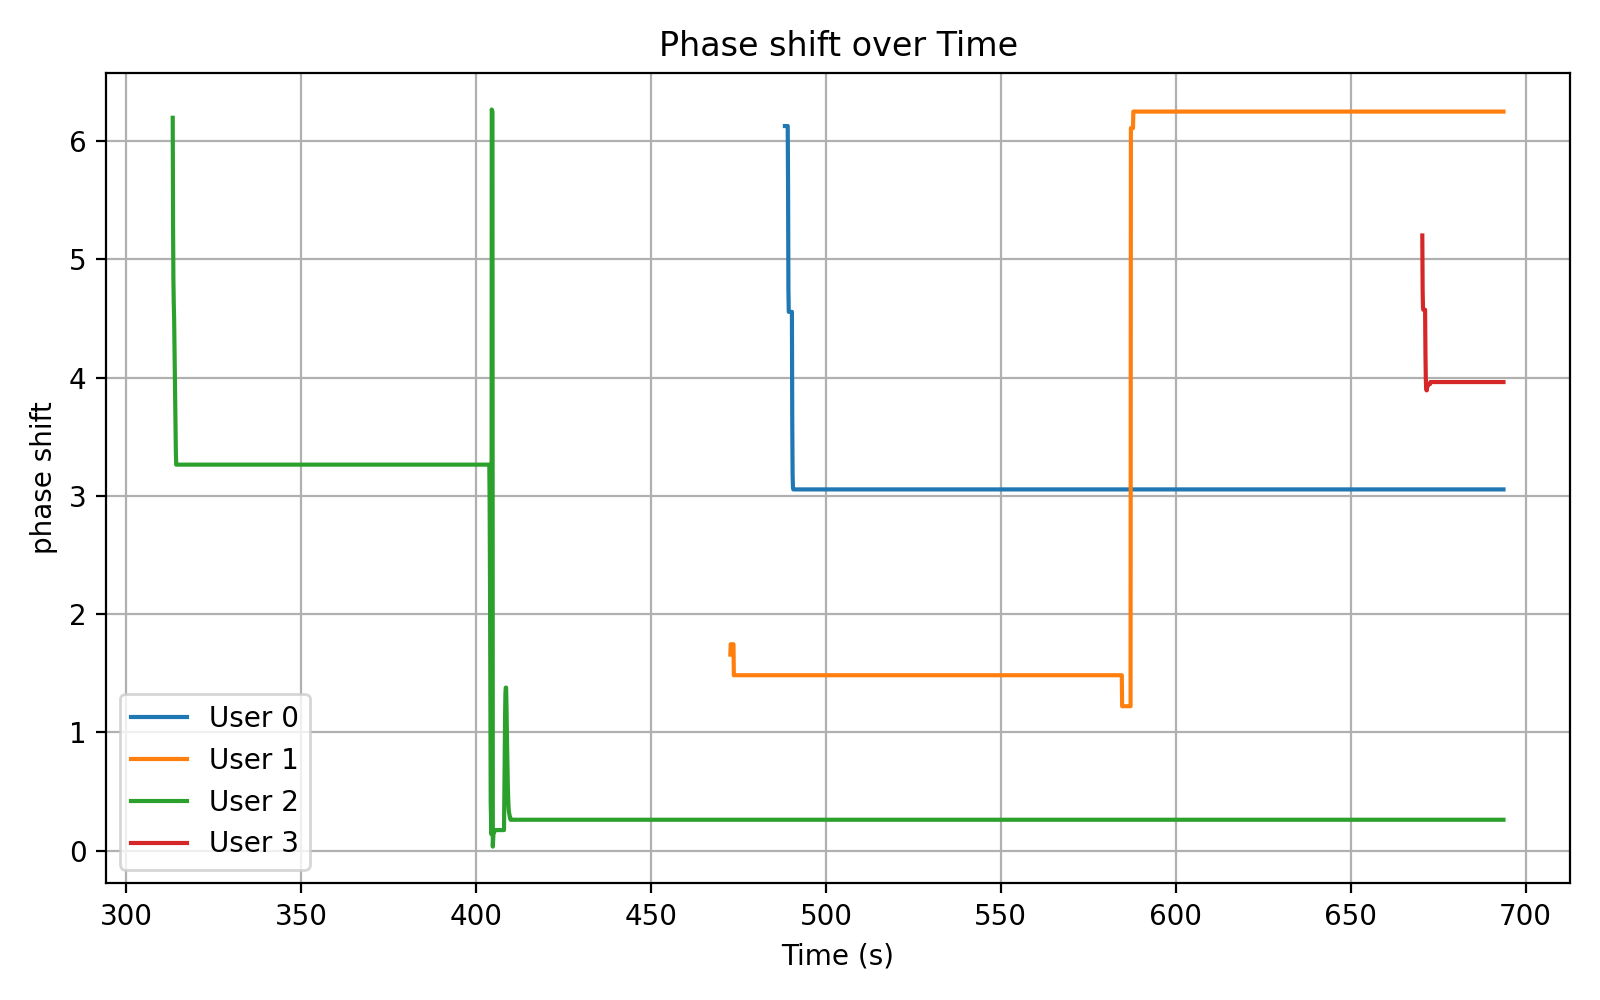
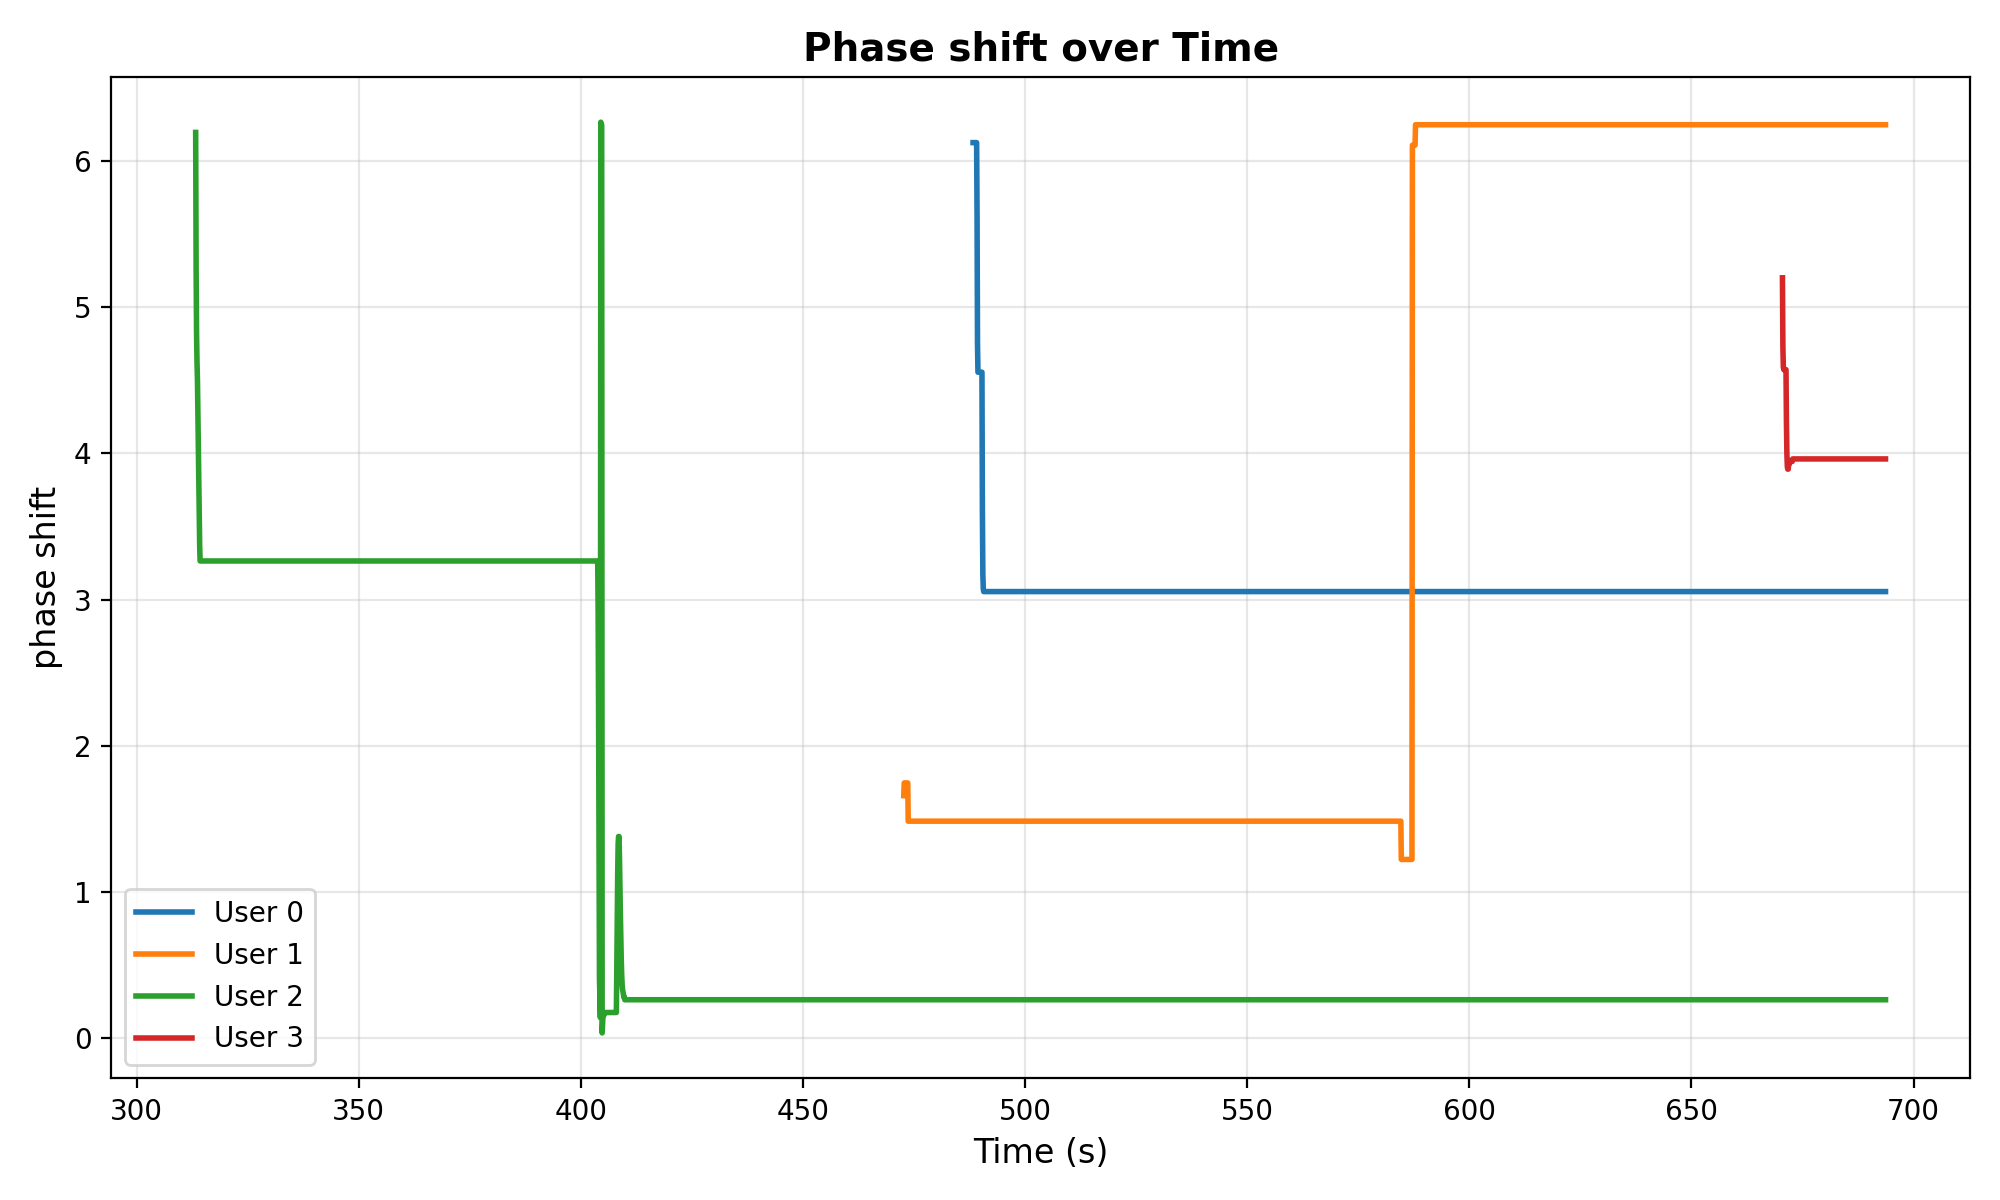
added filters to select/delselect users and parameters to show

diff --git a/ReadAndAnalyse.py b/ReadAndAnalyse.py
@@ -5,7 +5,7 @@ import pandas as pd
 import matplotlib.pyplot as plt
 from itertools import combinations
 import os
-from matplotlib.widgets import Slider, Button
+from matplotlib.widgets import Slider, Button, CheckButtons
 
 # ========== CONFIG ==========
 LOG_PATTERN = "User*.log"
@@ -74,36 +74,97 @@ for p in params:
                 val = d.iloc[idx]['value']; idx += 1
             series[p][u][i] = val
 
-# ========== STEP 3: VISUALISATION WITH SCROLLING ==========
+# ========== STEP 3: VISUALISATION WITH SCROLLING AND FILTERS ==========
 visible_count = 2  # how many graphs to show at once
 total_params = len(params)
 
-fig, axes = plt.subplots(visible_count, 1, figsize=(10, 6), sharex=True)
-plt.subplots_adjust(right=0.85, bottom=0.15)
+# Create figure with room for checkboxes
+fig = plt.figure(figsize=(14, 8))
+gs = fig.add_gridspec(visible_count, 2, width_ratios=[3, 1], 
+                     left=0.08, right=0.85, bottom=0.15, top=0.95,
+                     wspace=0.3, hspace=0.3)
+
+# Create axes for plots
+axes = [fig.add_subplot(gs[i, 0]) for i in range(visible_count)]
+
+# Selection state
+selected_users = {u: True for u in users}
+selected_params = {p: True for p in params}
+current_top_param = [0]
 
 # Function to plot the visible subset
-def draw_visible(start_index):
+def draw_visible():
+    # Get selected items
+    active_users = [u for u in users if selected_users[u]]
+    active_params = [p for p in params if selected_params[p]]
+    
+    if not active_users or not active_params:
+        for ax in axes:
+            ax.clear()
+            ax.text(0.5, 0.5, 'No data selected', ha='center', va='center', transform=ax.transAxes)
+        fig.canvas.draw_idle()
+        return
+    
     for ax in axes:
         ax.clear()
-    subset = params[start_index:start_index + visible_count]
+    
+    # Get visible parameters based on scroll position
+    visible_params = [p for p in active_params if selected_params[p]]
+    start_idx = min(current_top_param[0], max(0, len(visible_params) - visible_count))
+    current_top_param[0] = start_idx
+    subset = visible_params[start_idx:start_idx + visible_count]
+    
     for ax, p in zip(axes, subset):
-        for u in users:
-            ax.plot(timeline, series[p][u], label=f"User {u}")
-        ax.set_ylabel(p)
-        ax.set_title(p.capitalize())
-        ax.grid(True)
-    axes[-1].set_xlabel("Time (s)")
-    axes[0].legend(loc='upper right')
+        for u in active_users:
+            ax.plot(timeline, series[p][u], label=f"User {u}", linewidth=2)
+        ax.set_ylabel(p, fontsize=10)
+        ax.set_title(p.capitalize(), fontsize=11, fontweight='bold')
+        ax.grid(True, alpha=0.3)
+        ax.legend(loc='upper right', fontsize=9)
+    
+    if subset:
+        axes[-1].set_xlabel("Time (s)", fontsize=10)
+    
     for ax in axes:
         ax.set_xlim(t_min, t_min + 50)
+    
     fig.canvas.draw_idle()
 
+# User selection checkboxes
+ax_user_check = fig.add_subplot(gs[0, 1])
+ax_user_check.set_title("Select Users", fontsize=10, fontweight='bold')
+user_labels = [f"User {u}" for u in users]
+user_check = CheckButtons(ax_user_check, user_labels, [True] * len(users))
+
+def user_toggle(label):
+    user_id = int(label.split()[-1])
+    selected_users[user_id] = not selected_users[user_id]
+    draw_visible()
+
+user_check.on_clicked(user_toggle)
+
+# Parameter selection checkboxes
+ax_param_check = fig.add_subplot(gs[1, 1])
+ax_param_check.set_title("Select Parameters", fontsize=10, fontweight='bold')
+param_labels = [p.capitalize() for p in params]
+# Adjust to show scrollable list if too many parameters
+max_visible_params = min(len(params), 10)
+display_params = params[:max_visible_params]
+display_labels = [p.capitalize() for p in display_params]
+param_check = CheckButtons(ax_param_check, display_labels, [True] * len(display_params))
+
+def param_toggle(label):
+    param_name = label.lower()
+    selected_params[param_name] = not selected_params[param_name]
+    draw_visible()
+
+param_check.on_clicked(param_toggle)
+
 # Initial draw
-current_top_param = [0]
-draw_visible(current_top_param[0])
+draw_visible()
 
 # Time slider (shared across all visible plots)
-ax_slider_time = plt.axes([0.9, 0.15, 0.03, 0.7])
+ax_slider_time = plt.axes([0.88, 0.15, 0.02, 0.7])
 slider_time = Slider(ax_slider_time, 'Time', t_min, t_max-50, valinit=t_min, orientation='vertical')
 
 def update_time(val):
@@ -115,17 +176,18 @@ def update_time(val):
 slider_time.on_changed(update_time)
 
 # Parameter scroll slider (to scroll up/down between graphs)
-ax_slider_param = plt.axes([0.4, 0.05, 0.3, 0.03])
-slider_param = Slider(ax_slider_param, 'Scroll', 0, max(0, total_params - visible_count), 
+ax_slider_param = plt.axes([0.3, 0.05, 0.3, 0.03])
+slider_param = Slider(ax_slider_param, 'Scroll Params', 0, max(0, len([p for p in params if selected_params[p]]) - visible_count), 
                       valinit=0, valstep=1)
 
-def update_param(val):
+def update_param_scroll(val):
     current_top_param[0] = int(slider_param.val)
-    draw_visible(current_top_param[0])
-slider_param.on_changed(update_param)
+    draw_visible()
+
+slider_param.on_changed(update_param_scroll)
 
 # Button to toggle full/zoom view
-ax_button = plt.axes([0.88, 0.05, 0.08, 0.05])
+ax_button = plt.axes([0.92, 0.05, 0.06, 0.05])
 button = Button(ax_button, 'Full View', color='lightgray', hovercolor='0.85')
 full_view = [False]
 
@@ -133,31 +195,38 @@ def toggle_full(event):
     full_view[0] = not full_view[0]
     if full_view[0]:
         for ax in axes: ax.set_xlim(t_min, t_max)
-        button.label.set_text("Zoom View")
+        button.label.set_text("Zoom")
     else:
         start = slider_time.val
         for ax in axes: ax.set_xlim(start, start + 50)
         button.label.set_text("Full View")
     fig.canvas.draw_idle()
+
 button.on_clicked(toggle_full)
 
-plt.tight_layout(rect=[0,0.08,0.85,1])
 plt.show()
 
 # ========== STEP 4: SAVE IMAGES ==========
-# Save combined and per-parameter
-combined_path = os.path.join(GRAPH_SAVE_DIR, "scrollable_combined_view.png")
-fig.savefig(combined_path, dpi=200)
-print(f"💾 Saved scrollable combined view → {combined_path}")
+# Save images with current selections
+print("\n💾 Saving visualizations...")
 
+# Save the interactive view
+combined_path = os.path.join(GRAPH_SAVE_DIR, "interactive_view.png")
+fig.savefig(combined_path, dpi=200, bbox_inches='tight')
+print(f"💾 Saved interactive view → {combined_path}")
+
+# Save individual parameter plots for all users
 for p in params:
-    fig_single, ax = plt.subplots(figsize=(8,5))
+    fig_single, ax = plt.subplots(figsize=(10, 6))
     for u in users:
-        ax.plot(timeline, series[p][u], label=f"User {u}")
-    ax.set_title(f"{p.capitalize()} over Time")
-    ax.set_xlabel("Time (s)"); ax.set_ylabel(p)
-    ax.legend(); ax.grid(True)
+        ax.plot(timeline, series[p][u], label=f"User {u}", linewidth=2)
+    ax.set_title(f"{p.capitalize()} over Time", fontsize=14, fontweight='bold')
+    ax.set_xlabel("Time (s)", fontsize=12)
+    ax.set_ylabel(p, fontsize=12)
+    ax.legend(fontsize=10)
+    ax.grid(True, alpha=0.3)
     fig_single.tight_layout()
     fig_single.savefig(os.path.join(GRAPH_SAVE_DIR, f"{p}_plot.png"), dpi=200)
     plt.close(fig_single)
+
 print(f"🖼 Individual parameter plots saved to {GRAPH_SAVE_DIR}")
